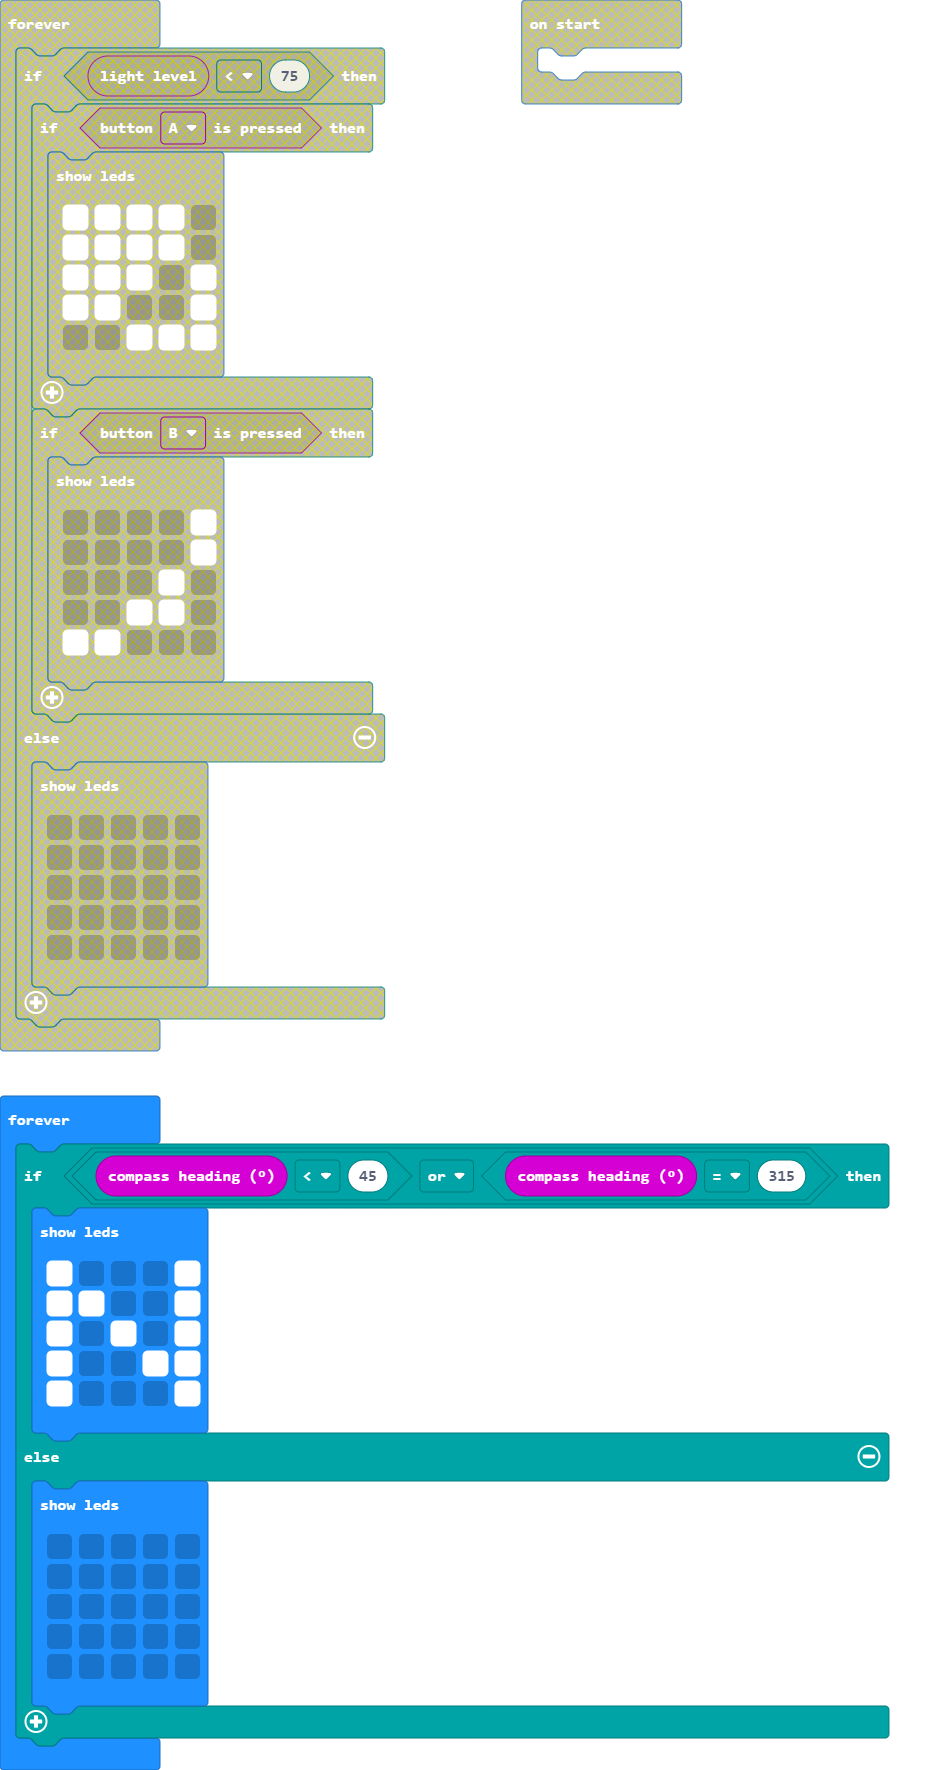
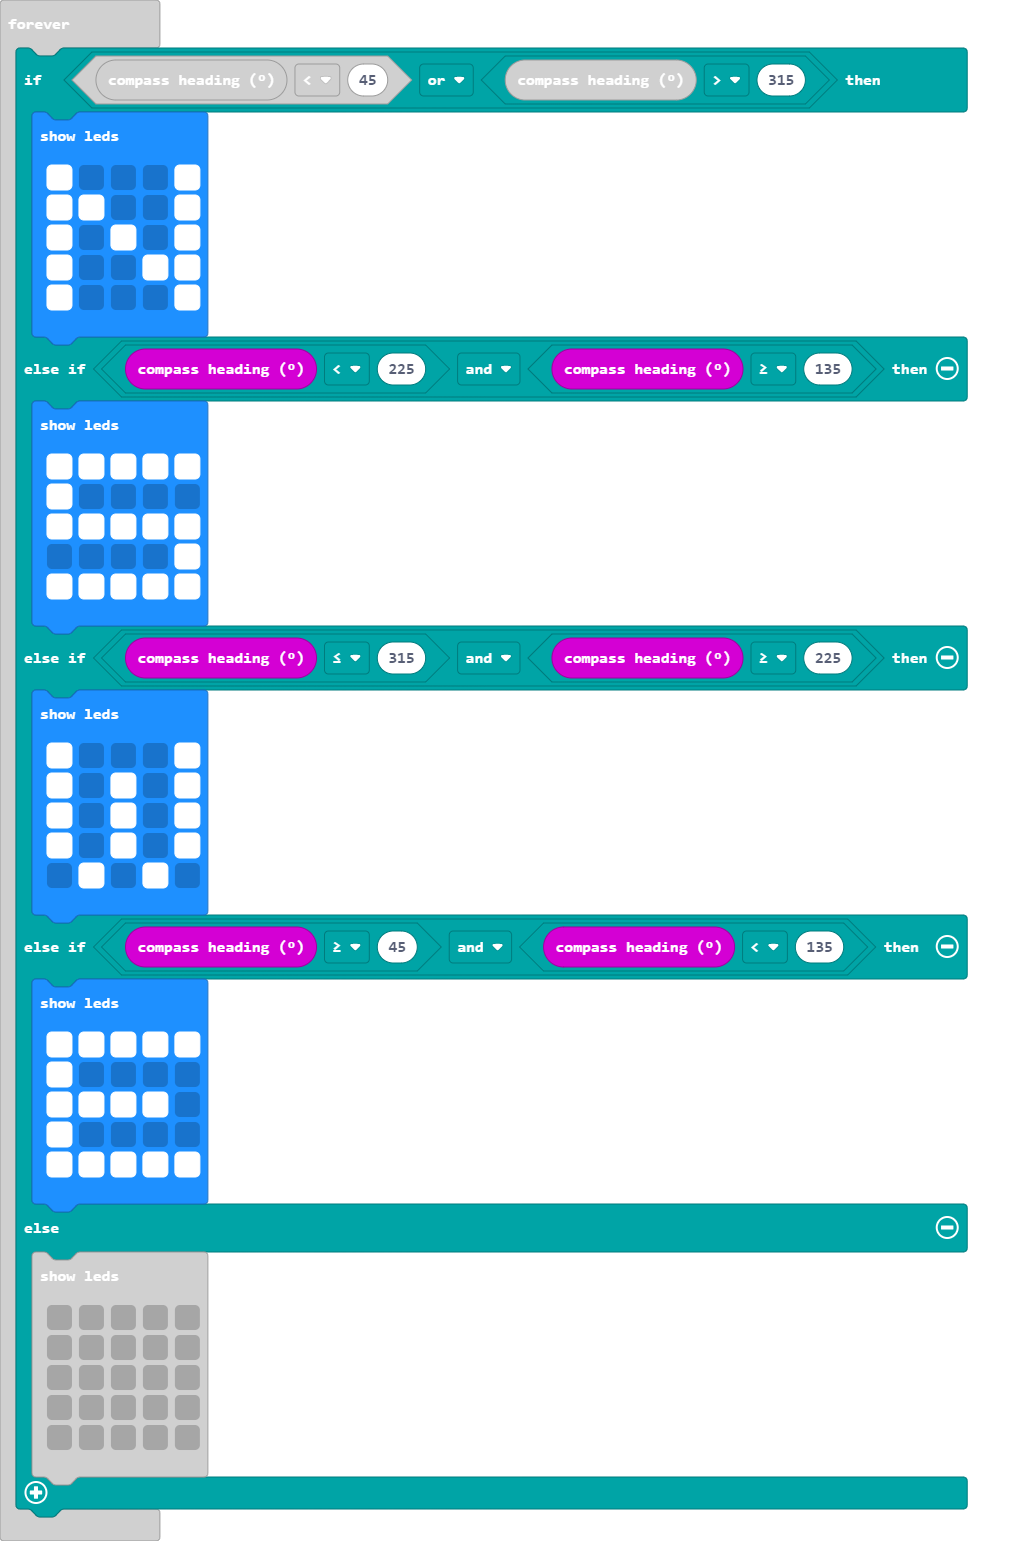
Update pxt.json, main.blocks, main.ts

diff --git a/main.ts b/main.ts
@@ -1,11 +1,35 @@
 basic.forever(function () {
-    if (input.compassHeading() < 45 || input.compassHeading() == 315) {
+    if (input.compassHeading() < 45 || input.compassHeading() > 315) {
         basic.showLeds(`
             # . . . #
             # # . . #
             # . # . #
             # . . # #
             # . . . #
+            `)
+    } else if (input.compassHeading() < 225 && input.compassHeading() >= 135) {
+        basic.showLeds(`
+            # # # # #
+            # . . . .
+            # # # # #
+            . . . . #
+            # # # # #
+            `)
+    } else if (input.compassHeading() <= 315 && input.compassHeading() >= 225) {
+        basic.showLeds(`
+            # . . . #
+            # . # . #
+            # . # . #
+            # . # . #
+            . # . # .
+            `)
+    } else if (input.compassHeading() >= 45 && input.compassHeading() < 135) {
+        basic.showLeds(`
+            # # # # #
+            # . . . .
+            # # # # .
+            # . . . .
+            # # # # #
             `)
     } else {
         basic.showLeds(`
